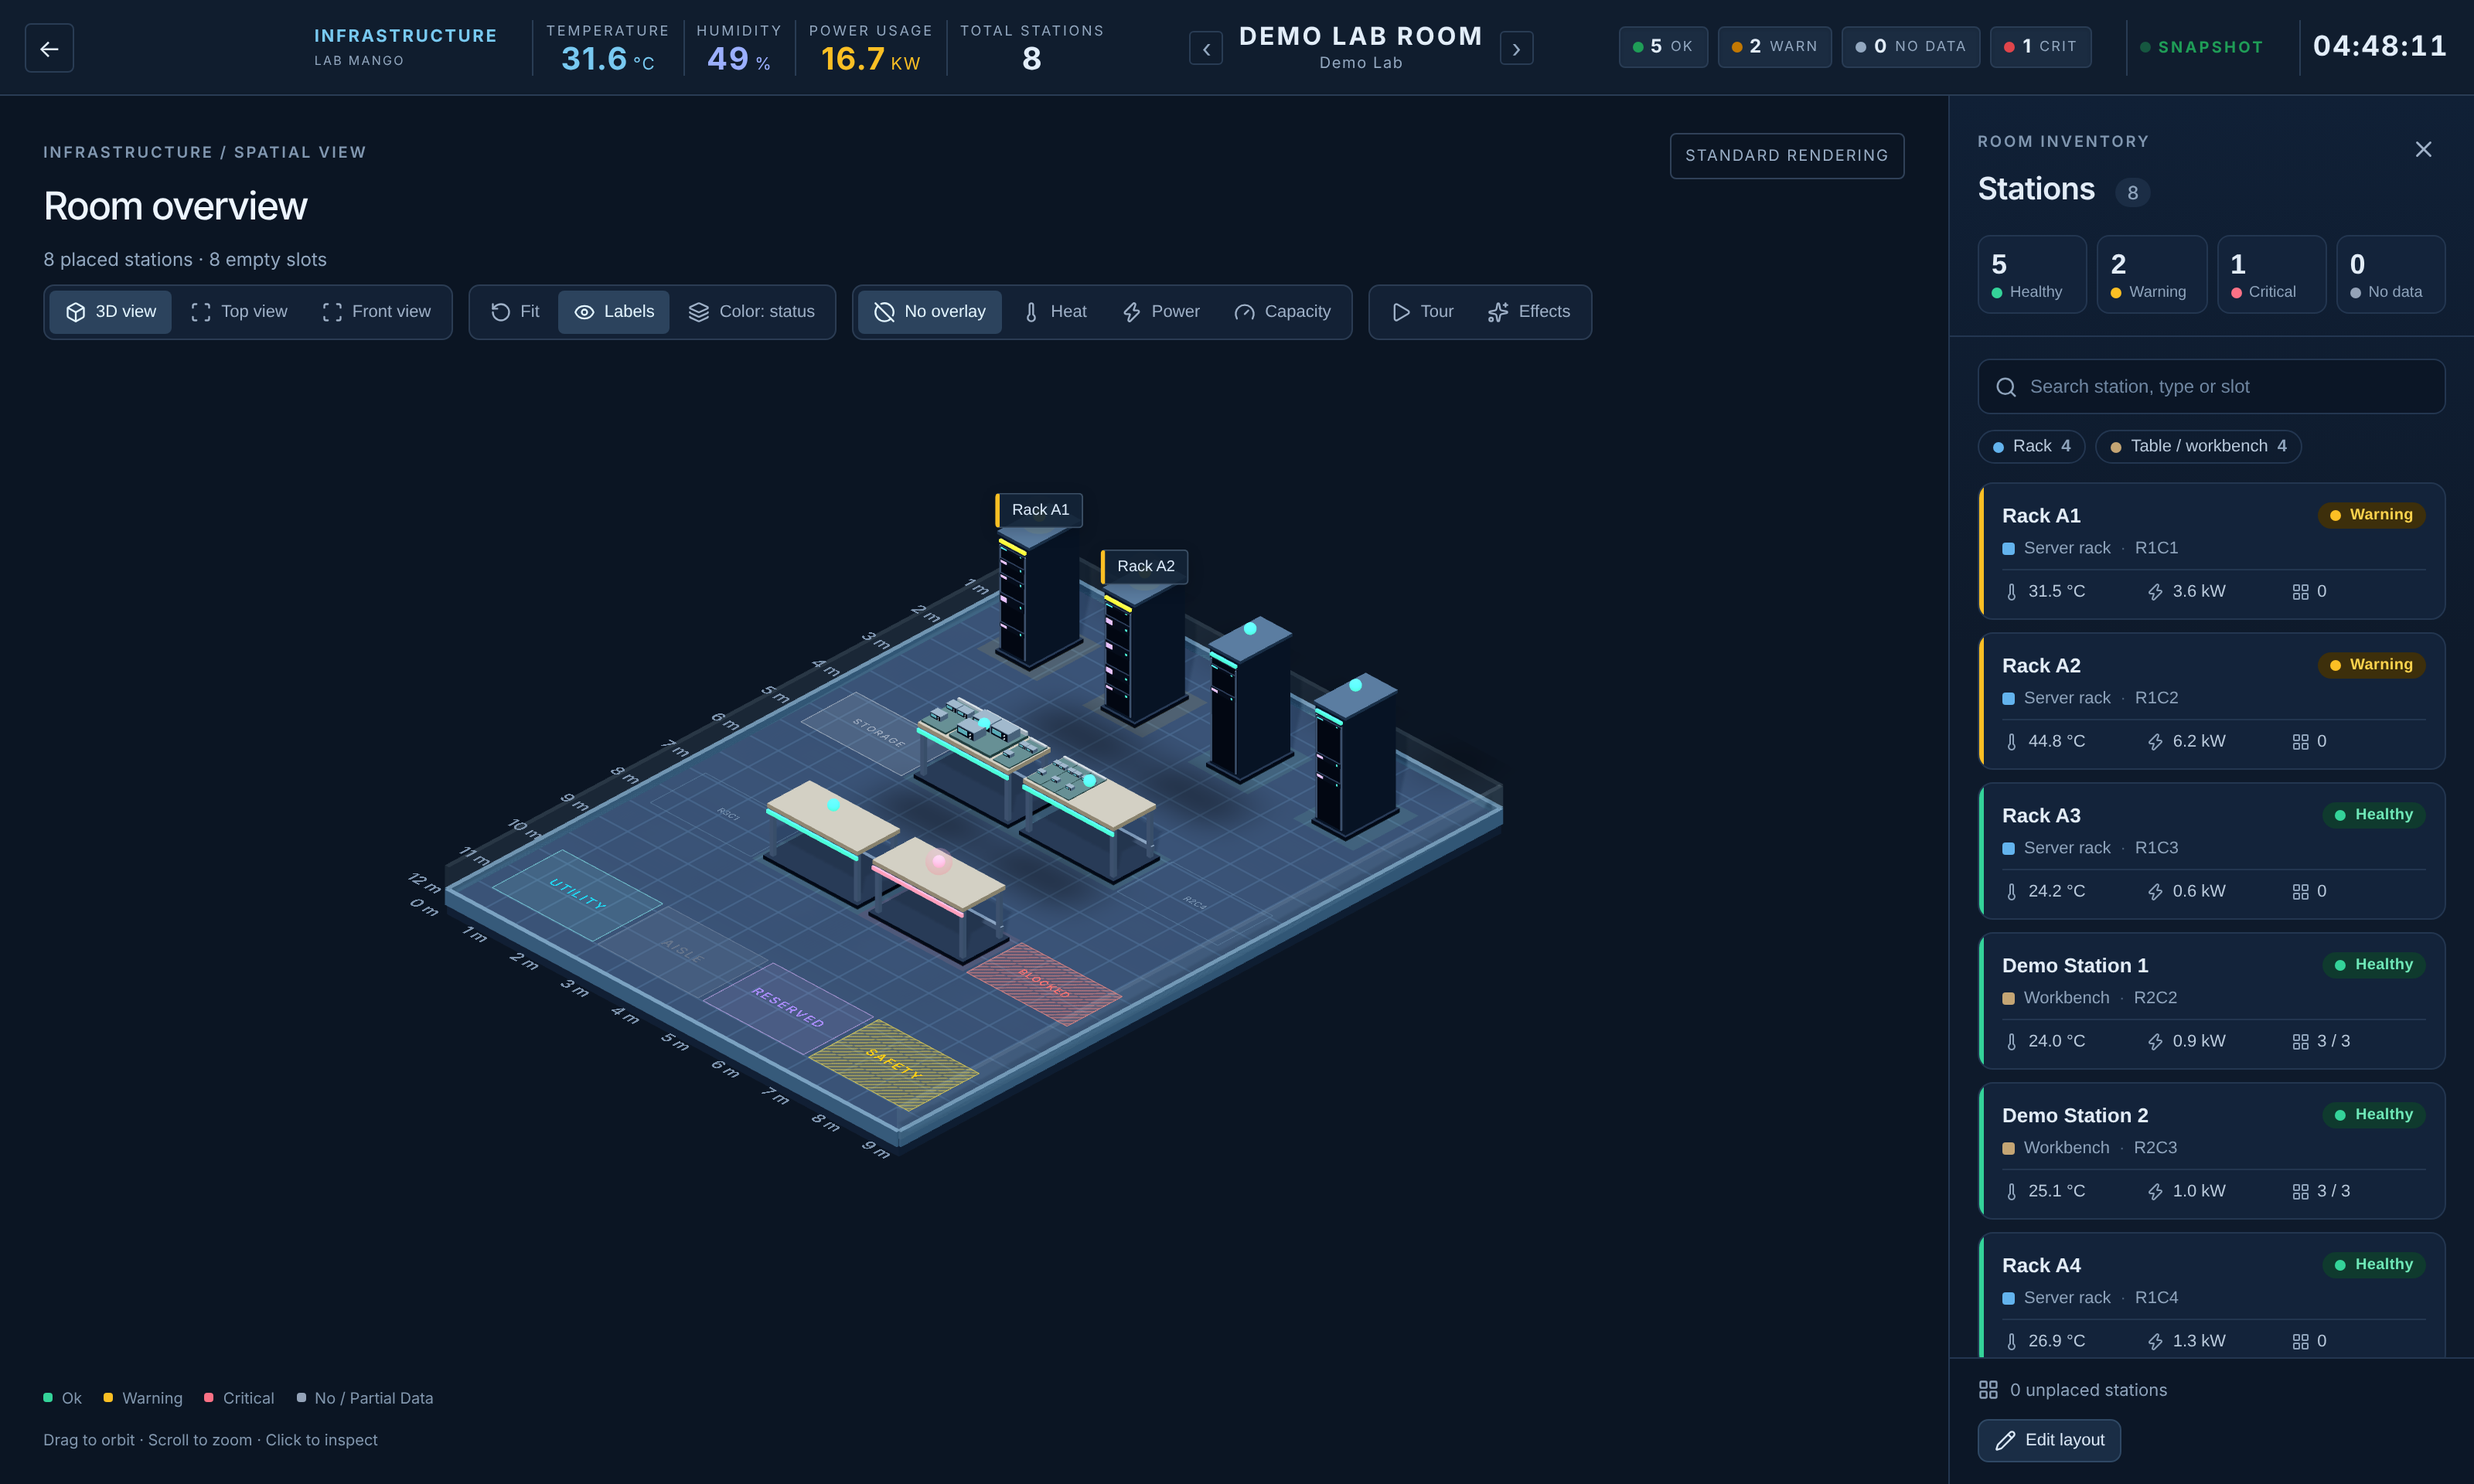
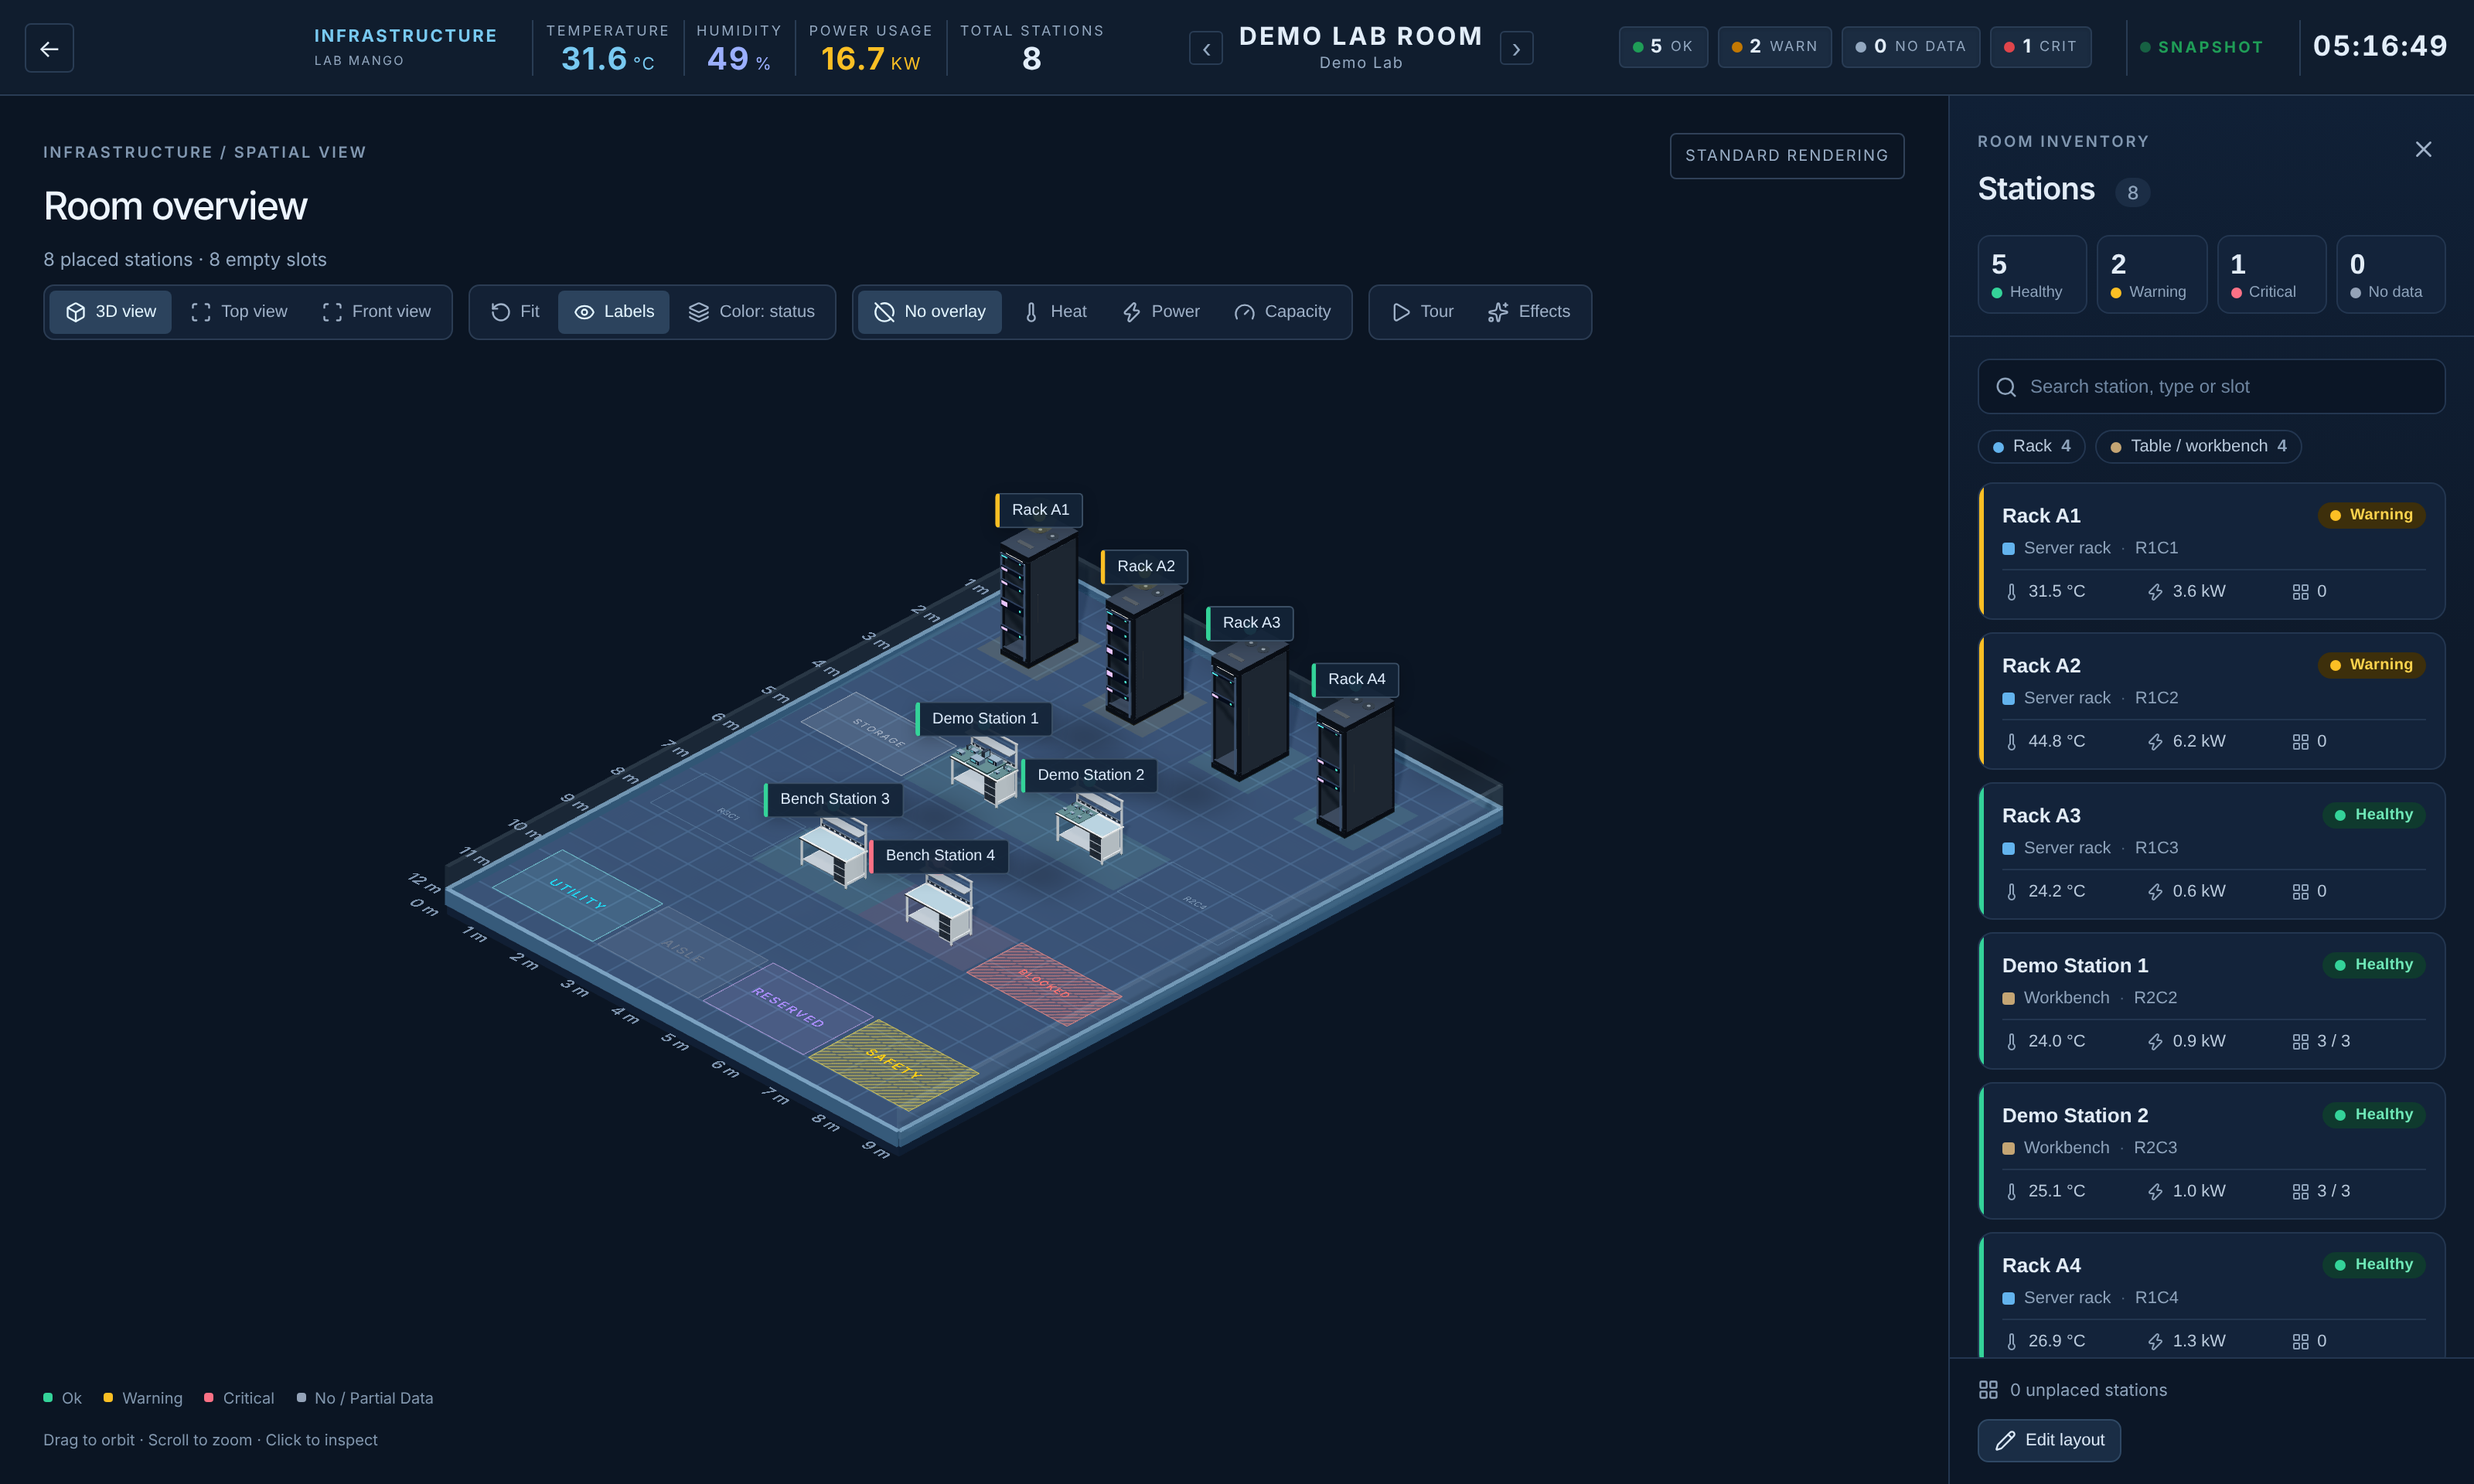
Show mounted rack units on imported rack models; reference model screenshots
Claude-Session: https://claude.ai/code/session_01HGUyxgXXetP3qgs2BQ9t8J

Changed region(s): [[0.3125, 0.3438, 0.5625, 0.6562]]

diff --git a/src/features/interactive-dashboard/components/scene/StationModel.tsx b/src/features/interactive-dashboard/components/scene/StationModel.tsx
@@ -232,14 +232,21 @@ export function StationModel({
         }
       >
         {(height, footprint) =>
-          // Like the schematic view, only work tables carry their benches on a surface.
-          rack.modelKind === "table" && (
+          // Like the schematic view, work tables carry their benches and racks show their mounted units.
+          rack.modelKind === "table" ? (
             <StationContents
               rack={rack}
               surfaceHeight={height + 0.01}
               footprint={footprint}
             />
-          )
+          ) : rack.modelKind === "rack" && rack.capacity?.rack_units ? (
+            <RackUnits
+              rack={rack}
+              width={footprint[0]}
+              height={height}
+              depth={footprint[1]}
+            />
+          ) : null
         }
       </ImportedModel>
     </group>

diff --git a/docs/screenshots/README.md b/docs/screenshots/README.md
@@ -19,3 +19,4 @@ Their temperature, humidity and power values are synthetic: the stations API doe
 - `dcim-capacity.png`: Capacity overlay (highest of power, weight, rack units and bench positions per station).
 - `dcim-station-capacity.png`: station panel with live readings, capacity meters and bench widths in 3D.
 - `dcim-top-view.png`: top view of the floor plan.
+- `dcim-reference-models.png`: built-in reference models (rack with mounted units, lab workbenches) and the rack elevation panel.
